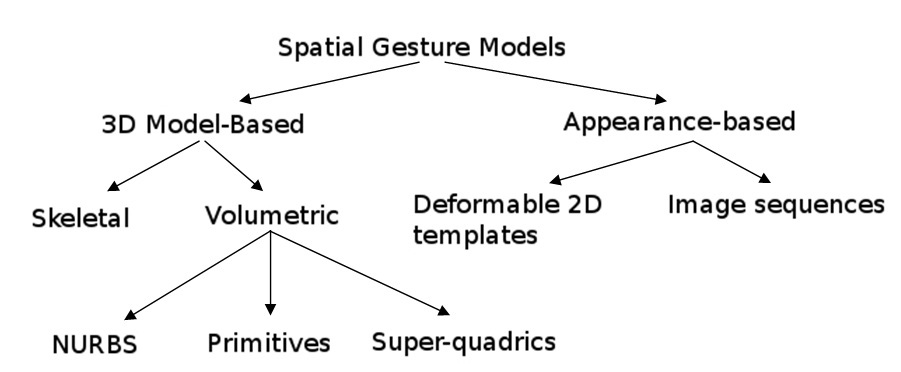
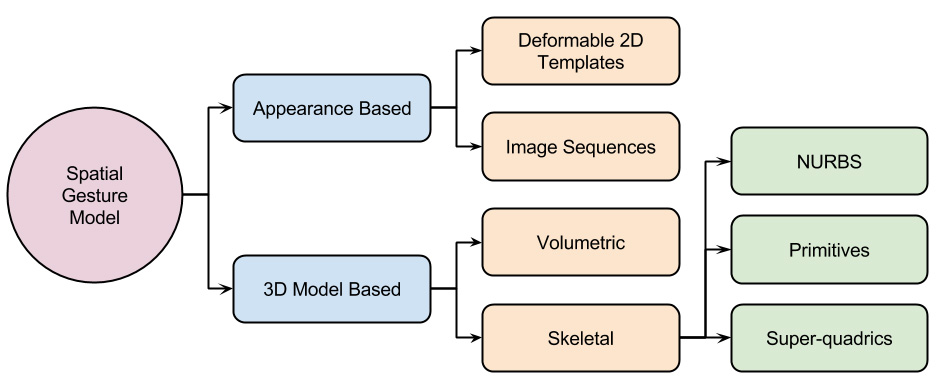
9.6.5

diff --git a/document/thesis/chapter/figures/xtion-depth.tex b/document/thesis/chapter/figures/xtion-depth.tex
@@ -1,5 +1,5 @@
 \begin{figure}
 	[h] \centering 
-	\includegraphics[height=8cm]{figures/content/xtion-depth.jpg} 	
-	\caption{Depth Image recorded by depth camera Asus Xtion Pro Live} \label{fg:xtion:depth} 
+	\includegraphics[height=9cm]{figures/content/xtion-depth.jpg} 	
+	\caption{Depth Image captured by Asus Xtion Pro Live using OpenNI. The darker the color of pixel, the farther it is from the sensor. \cite{asus-spec} } \label{fg:xtion:depth} 
 \end{figure}

diff --git a/document/thesis/chapter/figures/nao-proxy.tex b/document/thesis/chapter/figures/nao-proxy.tex
@@ -1,4 +1,4 @@
 \begin{figure}
 	[h] \centering 
-	\includegraphics[height=7cm]{figures/content/nao-proxy.jpg} \caption{NAOqi Proxy} \label{fg:nao:proxy} 
+	\includegraphics[width=120mm]{figures/content/nao-proxy.jpg} \caption{NAOqi modules form a tree of methods attached to modules, and modules attached to a broker. Thus, NAOqi Broker (proxy) can be used to remotely invoke any attached methods. \cite{nao-spec} } \label{fg:nao:proxy} 
 \end{figure}

diff --git a/document/thesis/chapter/appendix/bibo.tex b/document/thesis/chapter/appendix/bibo.tex
@@ -1,0 +1,13 @@
+\begin{thebibliography}{1}
+
+\bibitem{nao-spec}
+{\em NAO - Technical overview}.
+\newblock \Btxtechreplong{}, Adebaran, 2015.
+\newblock Aldebaran documentation 2.1, http://doc.aldebaran.com.
+
+\bibitem{asus-spec}
+{\em NAO - Technical overview}.
+\newblock \Btxtechreplong{}, Adebaran, 2015.
+\newblock Aldebaran documentation 2.1, https://www.asus.com/Commercial\_3D\_Sensor/Xtion\_PRO\_LIVE/.
+
+\end{thebibliography}

diff --git a/document/thesis/chapter/figures/xtion.tex b/document/thesis/chapter/figures/xtion.tex
@@ -1,4 +1,4 @@
 \begin{figure}
 	[h] \centering 
-	\includegraphics[height=4cm]{figures/content/xtion.jpg} \caption{Asus Xtion Pro Live} \label{fg:xtion} 
+	\includegraphics[height=4cm]{figures/content/xtion.jpg} \caption{OpenNI compatible Asus Xtion Pro Live is a commercial depth camera that can capture both RGB and depth image \cite{asus-spec} } \label{fg:xtion} 
 \end{figure}

diff --git a/document/thesis/chapter/figures/ges-model.tex b/document/thesis/chapter/figures/ges-model.tex
@@ -1,4 +1,4 @@
 \begin{figure}
 	[h] \centering 
-	\includegraphics[height=5cm]{figures/content/ges-model.jpg} \caption{Gesture Modeling} \label{fg:ges:model} 
+	\includegraphics[width=120mm]{figures/content/ges-model.jpg} \caption{Types of Spatial Gesture Modeling \cite{1}} \label{fg:ges:model} 
 \end{figure}

diff --git a/document/thesis/chapter/figures/ges-tax.tex b/document/thesis/chapter/figures/ges-tax.tex
@@ -1,4 +1,4 @@
 \begin{figure}
 	[h] \centering 
-	\includegraphics[height=5cm]{figures/content/ges-tax.jpg} \caption{Gesture Taxonomy} \label{fg:ges:tax} 
+	\includegraphics[width=120mm]{figures/content/ges-tax.jpg} \caption{The taxonomy of Hand Gestures \cite{1}} \label{fg:ges:tax} 
 \end{figure}

diff --git a/document/thesis/chapter/appendix/appendix.tex b/document/thesis/chapter/appendix/appendix.tex
@@ -7,7 +7,7 @@
 % References
 %%%%%%%%%%%%%%%%%%%%%%%%%%%%%%%%%%%%%
 \phantomsection
-\addcontentsline{toc}{chapter}{\numberline{}\bibname}
+%\addcontentsline{toc}{chapter}{\numberline{}\bibname}
 \bibliography{chapter/appendix/bib}
 \clearpage
 
